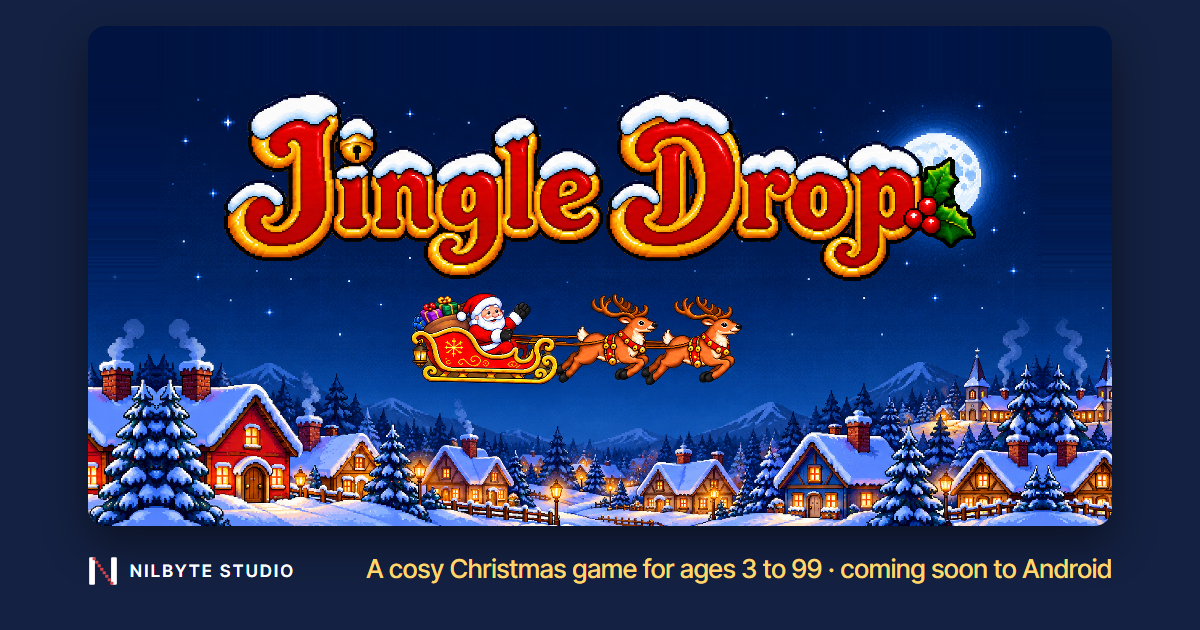
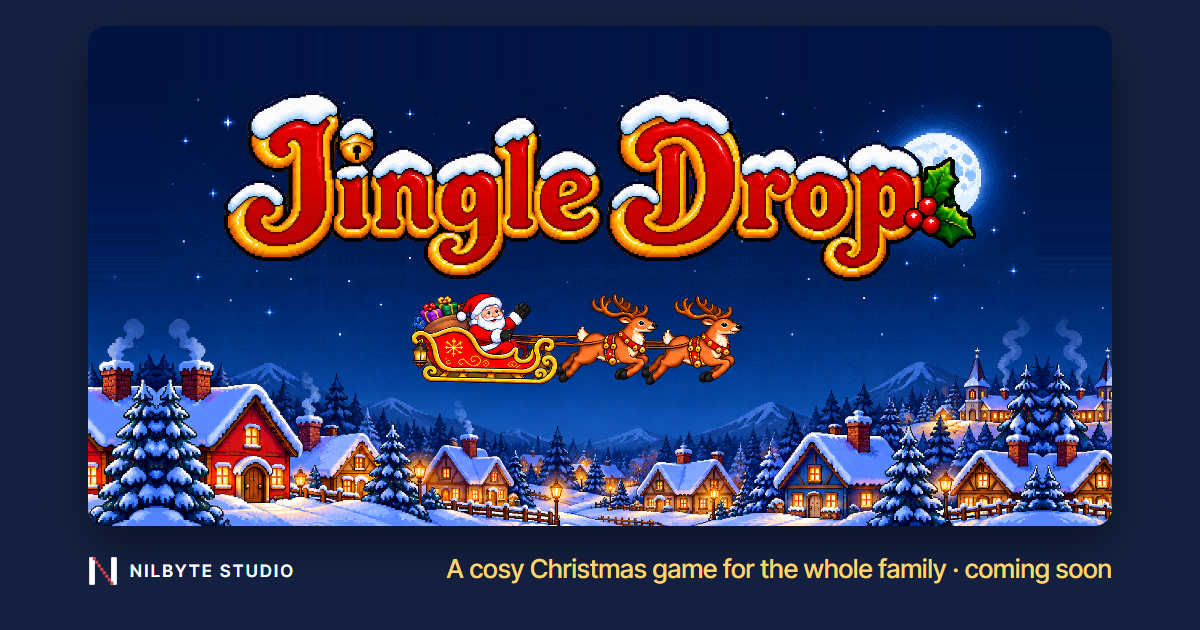
jingledrop: "for the whole family" instead of "ages 3 to 99"
Matches the shared Play and App Store listing: launch page title, lede,
meta and structured data, the homepage card, the privacy policy intro
(last updated 7 November 2026) and the share card, re-rendered (it also
said "coming soon to Android" only). Sitemap dates bumped.

Changed region(s): [[0.3083, 0.8746, 0.925, 0.9349]]

diff --git a/jingledrop/index.html b/jingledrop/index.html
@@ -4,13 +4,13 @@
 <meta charset="utf-8">
 <meta name="viewport" content="width=device-width, initial-scale=1">
 
-<title>Jingle Drop — A cosy Christmas game for ages 3 to 99</title>
-<meta name="description" content="Fly Santa's sleigh over a snowy village, drop gifts down the chimneys and dodge the shooting stars. A cosy Christmas game for ages 3 to 99. Plays offline, no account, gentle ads set for children.">
+<title>Jingle Drop — A cosy Christmas game for the whole family</title>
+<meta name="description" content="Fly Santa's sleigh over a snowy village, drop gifts down the chimneys and dodge the shooting stars. A cosy Christmas game for the whole family. Plays offline, no account, gentle ads rated for all ages.">
 <link rel="canonical" href="https://nilbytestudio.com/jingledrop/">
 
 <meta property="og:type" content="website">
 <meta property="og:site_name" content="Nilbyte Studio">
-<meta property="og:title" content="Jingle Drop — A cosy Christmas game for ages 3 to 99">
+<meta property="og:title" content="Jingle Drop — A cosy Christmas game for the whole family">
 <meta property="og:description" content="Fly Santa's sleigh, drop gifts down the chimneys and dodge the shooting stars. A cosy Christmas game that plays offline, with no account.">
 <meta property="og:url" content="https://nilbytestudio.com/jingledrop/">
 <meta property="og:image" content="https://nilbytestudio.com/assets/images/jingledrop/og-cover.png">
@@ -39,7 +39,7 @@
   "@context": "https://schema.org",
   "@type": "MobileApplication",
   "name": "Jingle Drop",
-  "description": "Fly Santa's sleigh over a snowy village, drop gifts down the chimneys and dodge the shooting stars. A cosy Christmas game for ages 3 to 99. Plays offline, no account, gentle ads set for children.",
+  "description": "Fly Santa's sleigh over a snowy village, drop gifts down the chimneys and dodge the shooting stars. A cosy Christmas game for the whole family. Plays offline, no account, gentle ads rated for all ages.",
   "applicationCategory": "GameApplication",
   "operatingSystem": "Android, iOS",
   "url": "https://nilbytestudio.com/jingledrop/",
@@ -106,7 +106,7 @@
         <h1 class="hero__title">Every chimney<br> is waiting.</h1>
         <p class="hero__lede">
           Fly Santa's sleigh over a snowy village, drop gifts down the
-          chimneys and dodge the shooting stars. Made for everyone from 3 to 99.
+          chimneys and dodge the shooting stars. Made for the whole family.
         </p>
 
         <!-- Store badges go here when the game is public — the same markup as

diff --git a/docs/jingledrop/og-cover.html b/docs/jingledrop/og-cover.html
@@ -24,5 +24,5 @@ body { font-family: 'Inter Tight', sans-serif; background: #142142; color: #FFFF
     <g fill="#D9434A"><rect x="32.00" y="26.00" width="5.5" height="5.5" rx="1.2"/><rect x="36.36" y="32.07" width="5.5" height="5.5" rx="1.2"/><rect x="40.71" y="38.14" width="5.5" height="5.5" rx="1.2"/><rect x="45.07" y="44.21" width="5.5" height="5.5" rx="1.2"/><rect x="49.43" y="50.29" width="5.5" height="5.5" rx="1.2"/><rect x="53.79" y="56.36" width="5.5" height="5.5" rx="1.2"/><rect x="58.14" y="62.43" width="5.5" height="5.5" rx="1.2"/><rect x="62.50" y="68.50" width="5.5" height="5.5" rx="1.2"/></g></svg>
     NILBYTE STUDIO
   </div>
-  <p class="tag">A cosy Christmas game for ages 3 to 99 · coming soon to Android</p>
+  <p class="tag">A cosy Christmas game for the whole family · coming soon</p>
 </body></html>

diff --git a/jingledrop/privacy/index.html b/jingledrop/privacy/index.html
@@ -48,7 +48,7 @@
       </span>
     </a>
     <h1 class="page-header__title">Privacy Policy</h1>
-    <p class="page-header__tagline">Jingle Drop &middot; <span class="updated">last updated 28 October 2026</span></p>
+    <p class="page-header__tagline">Jingle Drop &middot; <span class="updated">last updated 7 November 2026</span></p>
   </div>
 </header>
 
@@ -68,7 +68,7 @@
 
   <p>
     This policy explains that in full. Jingle Drop is a Christmas game for Android phones and
-    iPhone made by Nilbyte Studio ("I", "me"), for everyone from 3 to 99. Its Android package
+    iPhone made by Nilbyte Studio ("I", "me"), for the whole family. Its Android package
     name and its iPhone bundle ID are both <code>com.nilbytestudio.jingledrop</code>. Where the
     two versions differ, this policy says so.
   </p>

diff --git a/index.html b/index.html
@@ -358,7 +358,7 @@
                 <a class="card__link" href="jingledrop/">Jingle Drop</a>
               </h3>
               <p class="card__text">
-                A cosy Christmas game for everyone from 3 to 99. Fly Santa's sleigh over
+                A cosy Christmas game for the whole family. Fly Santa's sleigh over
                 a snowy village, drop gifts down the chimneys and dodge the shooting
                 stars. One thumb steers, the other drops, and a glowing chimney tells
                 even the youngest player when to tap.
